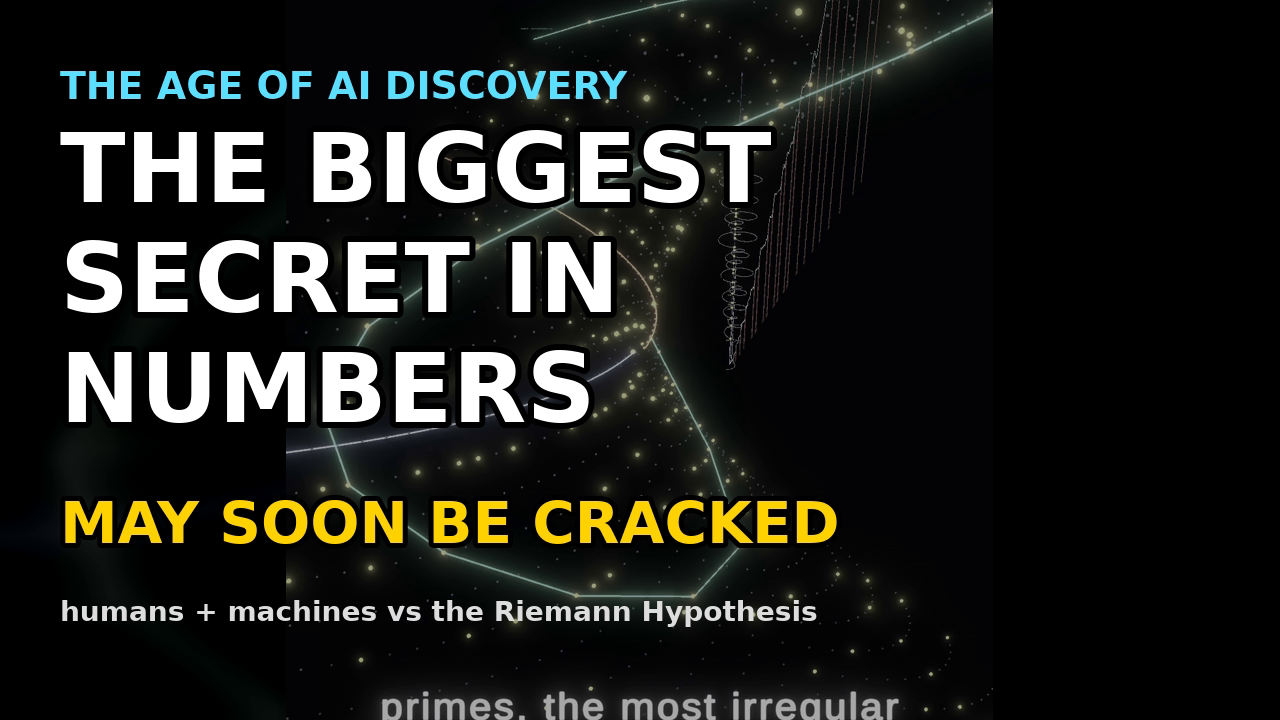
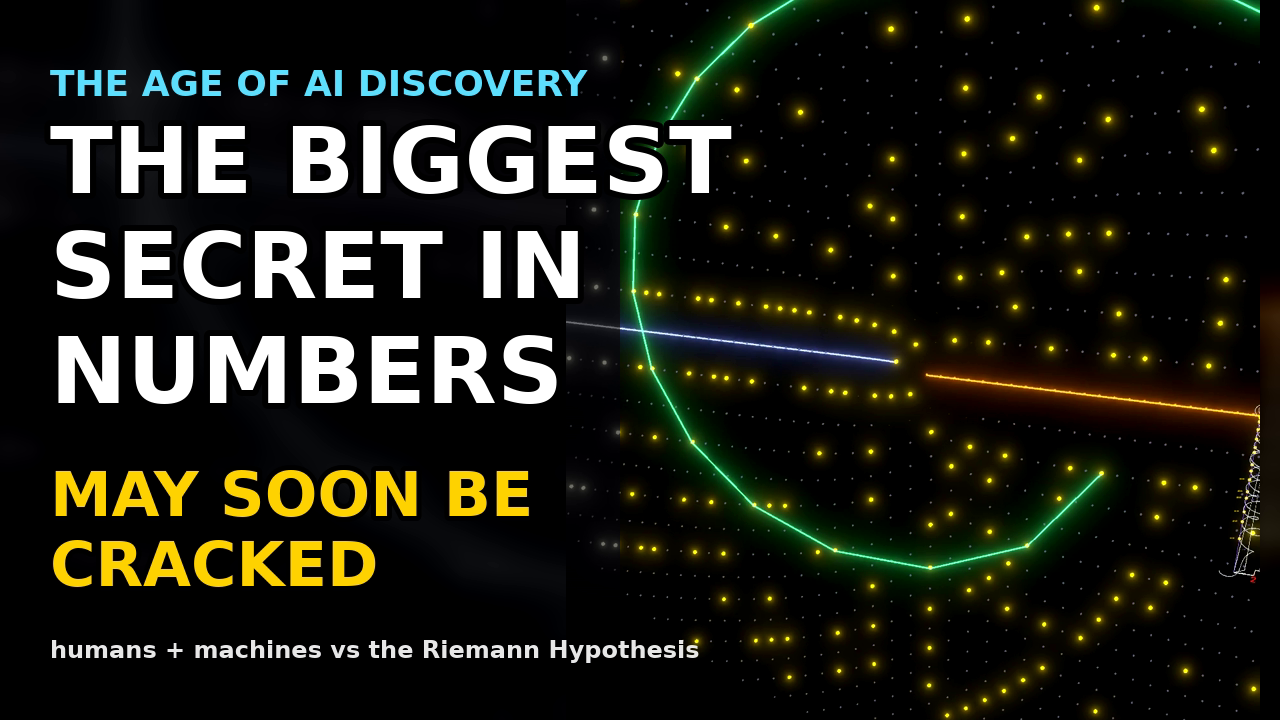
Thumbnails (vertical + landscape) from clean saddle frames; sacks:show builds the full spiral

diff --git a/Assets/Tour/SacksSpiral.cs b/Assets/Tour/SacksSpiral.cs
@@ -559,6 +559,26 @@ public class SacksSpiral : MonoBehaviour
 
     public void Hide() => gameObject.SetActive(false);
 
+    /// <summary>Show the complete spiral immediately (used when a chapter starts without the hook having built it).</summary>
+    public void ShowFull()
+    {
+        gameObject.SetActive(true);
+        HideLattice();
+        if (sieveRoot != null) sieveRoot.SetActive(false);
+        foreach (TextBox f in factorLabels) f.gameObject.SetActive(false);
+        for (int i = 0; i < GridCount; i++)
+        {
+            int n = i + 1;
+            dots[i].SetActive(IsPrime(n) || IsSquare(n));
+            labels[i].Color = IsPrime(n) ? Factory.Palette.Zero : IsSquare(n) ? new Color(1f, .55f, .2f) : new Color(.28f, .28f, .34f);
+        }
+
+        morph = 1f;
+        reveal = 1f;
+        caption.gameObject.SetActive(false);
+        Layout();
+    }
+
     public IEnumerable<Renderer> Renderers()
     {
         foreach (GameObject d in dots) if (d.activeSelf) yield return d.GetComponent<Renderer>();

diff --git a/Assets/Tour/TourDirector.cs b/Assets/Tour/TourDirector.cs
@@ -515,7 +515,7 @@ public class TourDirector : MonoBehaviour
                         else if (arg == "composites") Annotations.Sacks.PulseComposites(Mathf.Max(2f, currentLineSeconds * 0.8f));
                         else if (arg == "routes") Annotations.Sacks.ShowRoutes(true);
                         else if (arg == "noroutes") Annotations.Sacks.ShowRoutes(false);
-                        else if (arg == "show") { Annotations.Sacks.gameObject.SetActive(true); }
+                        else if (arg == "show") Annotations.Sacks.ShowFull();
                         else Annotations.Sacks.Hide();
                         break;
                     case "chainfeet": Annotations.ShowChainFeet(arg != "off"); break;

diff --git a/Assets/Tests/StoryboardRenderTest.cs b/Assets/Tests/StoryboardRenderTest.cs
@@ -42,7 +42,7 @@ public class StoryboardRenderTest
         if (!string.IsNullOrEmpty(chapter)) director.StartChapter = chapter;
         if (int.TryParse(Environment.GetEnvironmentVariable("ZETA_FPS"), out int fps)) director.Recorder.Fps = fps;
 
-        if (Environment.GetEnvironmentVariable("ZETA_NO_CAPTIONS") == "1") director.Captions.gameObject.SetActive(false); // clean frames for thumbnails
+        if (Environment.GetEnvironmentVariable("ZETA_NO_CAPTIONS") == "1") director.Captions.GetComponent<Canvas>().enabled = false; // clean frames for thumbnails
         yield return null;
         director.StartTour();
         yield return null;

diff --git a/docs/thumbnail/README.md b/docs/thumbnail/README.md
@@ -1,0 +1,8 @@
+# Thumbnails
+
+- `thumbnail-vertical.png` — 1080×1920 (Shorts / Reels)
+- `thumbnail-landscape.png` — 1280×720 (YouTube)
+- `source-*.png` — the clean saddle frames the text was composited onto (rendered with `ZETA_NO_CAPTIONS=1`)
+
+Text is composited with ffmpeg `drawtext` (DejaVu Sans Bold). To regenerate with different copy, re-run the
+commands in the git history of this folder or open the source frames in any editor.
